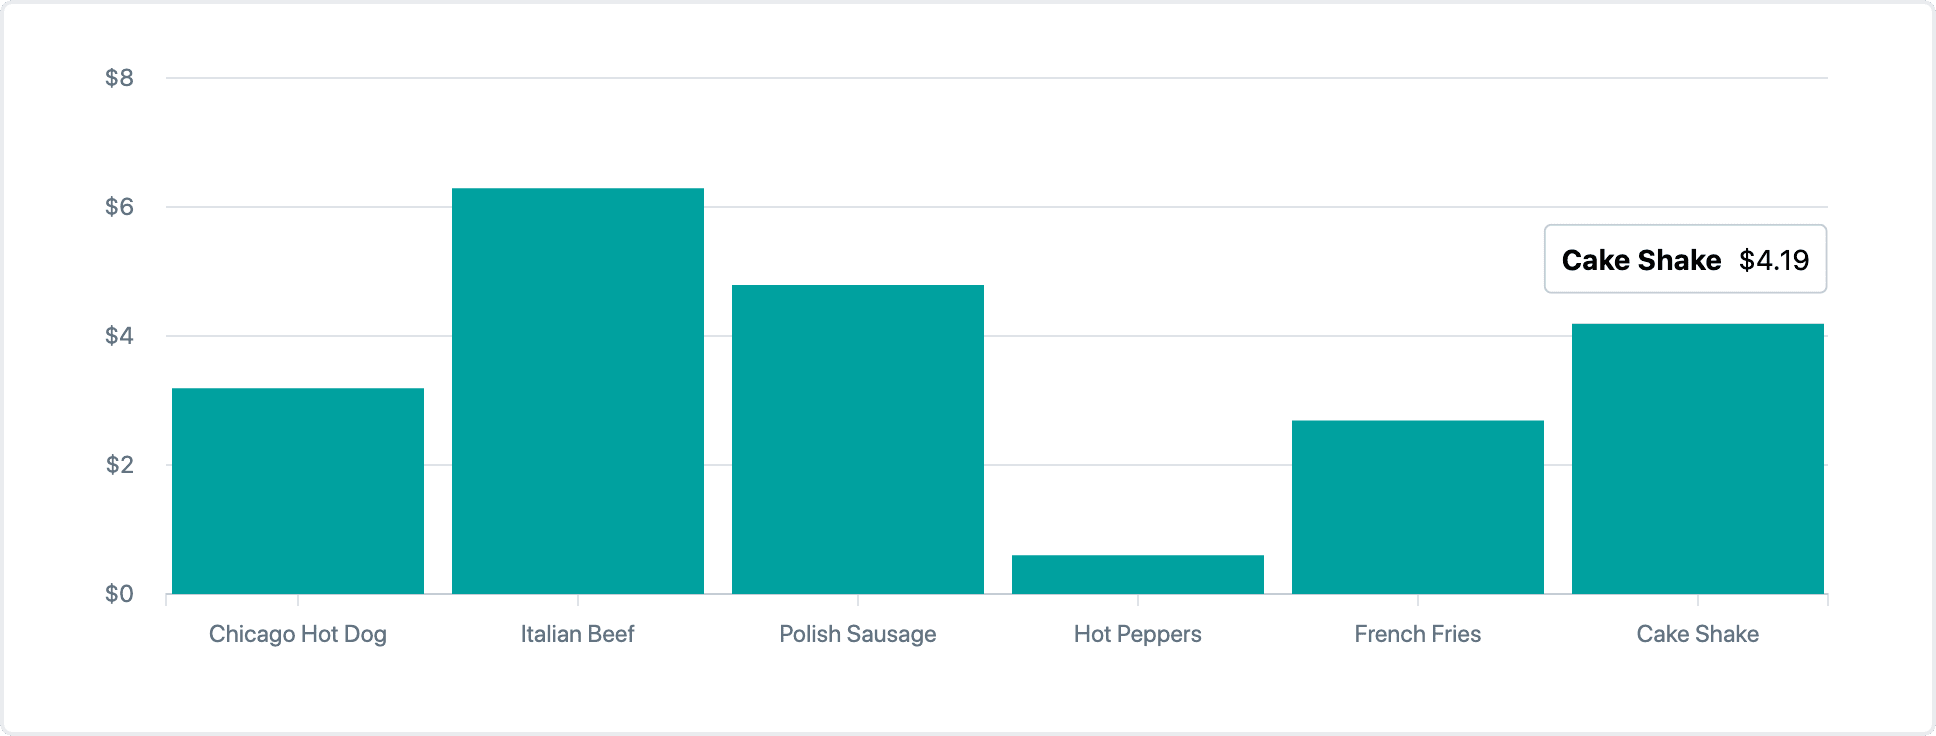
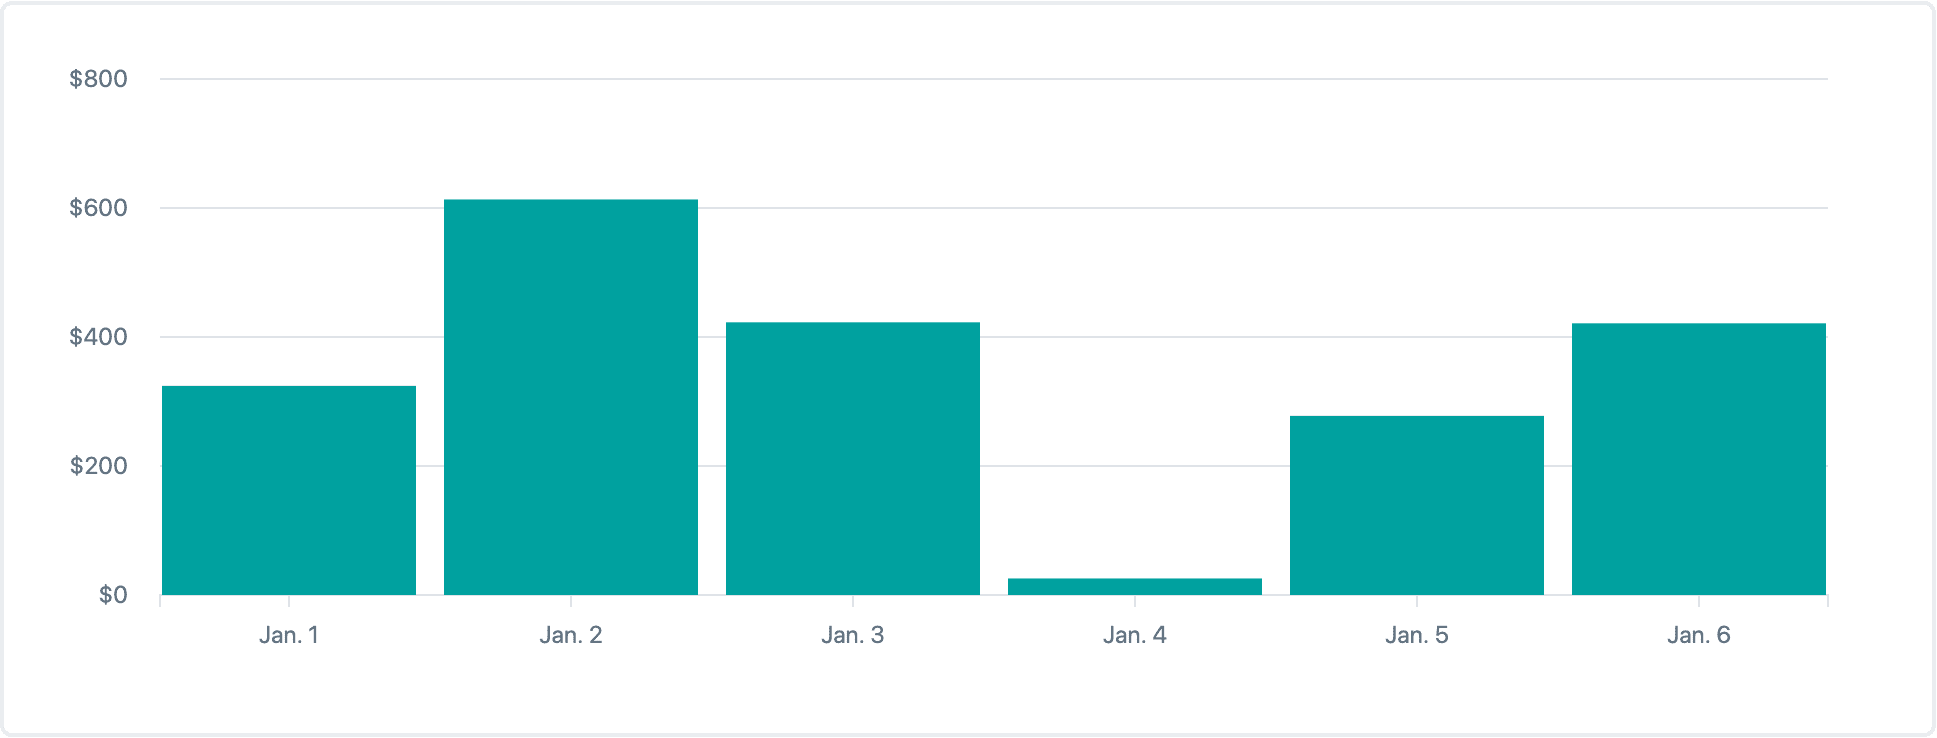
Add Bar Chart Tooltip

diff --git a/documentation/code/BarChartDemo.tsx b/documentation/code/BarChartDemo.tsx
@@ -1,7 +1,7 @@
 import React from 'react';
 
 // eslint-disable-next-line shopify/strict-component-boundaries
-import {BarChart} from '../../src/components';
+import {BarChart, BarChartTooltip} from '../../src/components';
 
 import {OUTER_CONTAINER_STYLE} from './constants';
 
@@ -21,31 +21,63 @@ export function BarChartDemo() {
     "-apple-system, BlinkMacSystemFont, 'Segoe UI', Roboto, Oxygen, Ubuntu, Cantarell, 'Open Sans', 'Helvetica Neue', sans-serif";
 
   const data = [
-    {rawValue: 3.19, label: 'Chicago Hot Dog'},
-    {rawValue: 6.29, label: 'Italian Beef'},
-    {rawValue: 4.79, label: 'Polish Sausage'},
+    {rawValue: 324.19, label: '2020-01-01T12:00:00Z'},
+    {rawValue: 613.29, label: '2020-01-02T12:00:00Z'},
+    {rawValue: 422.79, label: '2020-01-03T12:00:00Z'},
     {
-      rawValue: 0.6,
-      label: 'Hot Peppers',
+      rawValue: 25.6,
+      label: '2020-01-04T12:00:00Z',
     },
-    {rawValue: 2.69, label: 'French Fries'},
-    {rawValue: 4.19, label: 'Cake Shake'},
+    {rawValue: 277.69, label: '2020-01-05T12:00:00Z'},
+    {rawValue: 421.19, label: '2020-01-06T12:00:00Z'},
   ];
 
-  const formatYAxisLabel = (val) =>
-    new Intl.NumberFormat('en-CA', {
+  function formatXAxisLabel(value: string) {
+    return new Date(value).toLocaleDateString('en-CA', {
+      day: 'numeric',
+      month: 'short',
+    });
+  }
+
+  function formatYAxisLabel(value: number) {
+    return new Intl.NumberFormat('en-CA', {
       style: 'currency',
       currency: 'CAD',
-      maximumSignificantDigits: 3,
-    }).format(val);
+      maximumSignificantDigits: 2,
+    }).format(value);
+  }
+
+  function formatTooltipLabel(value: string) {
+    return new Date(value).toLocaleDateString('en-CA', {
+      day: 'numeric',
+      month: 'long',
+      year: 'numeric',
+    });
+  }
+
+  function formatTooltipValue(value: number) {
+    return new Intl.NumberFormat('en-CA', {
+      style: 'currency',
+      currency: 'CAD',
+    }).format(value);
+  }
+
+  function renderTooltip({label, value}: {label: string; value: number}) {
+    const formattedLabel = formatTooltipLabel(label);
+    const formattedValue = formatTooltipValue(value);
+
+    return <BarChartTooltip label={formattedLabel} value={formattedValue} />;
+  }
 
   return (
     <div style={OUTER_CONTAINER_STYLE}>
       <div style={innerContainerStyle}>
         <BarChart
-          formatYAxisLabel={formatYAxisLabel}
-          color="primary"
           data={data}
+          color="primary"
+          formatXAxisLabel={formatXAxisLabel}
+          formatYAxisLabel={formatYAxisLabel}
+          renderTooltip={renderTooltip}
         />
       </div>
     </div>

diff --git a/src/components/BarChart/tests/Chart.test.tsx b/src/components/BarChart/tests/Chart.test.tsx
@@ -4,7 +4,7 @@ import {Color} from 'types';
 import {YAxis, TooltipContainer} from 'components';
 
 import {Chart} from '../Chart';
-import {XAxis, Tooltip, Bar} from '../components';
+import {XAxis, Bar} from '../components';
 
 (global as any).DOMRect = class DOMRect {
   width = 500;
@@ -35,10 +35,11 @@ describe('Chart />', () => {
     chartDimensions: new DOMRect(),
     histogram: false,
     color: 'colorPurple' as Color,
-    formatXAxisLabel: (value: string) => value,
+    formatXAxisLabel: (value: string) => value.toString(),
     formatYAxisLabel: (value: number) => value.toString(),
     barMargin: 0,
     timeSeries: false,
+    renderTooltip: jest.fn(() => <p>Mock Tooltip</p>),
   };
 
   it('renders an SVG element', () => {
@@ -56,21 +57,32 @@ describe('Chart />', () => {
     expect(barChart).toContainReactComponent(YAxis);
   });
 
-  it('does not render a <Tooltip /> or <TooltipContainer /> if there is no active point', () => {
+  it('does not render a <TooltipContainer /> if there is no active point', () => {
     const chart = mount(<Chart {...mockProps} />);
 
     expect(chart).not.toContainReactComponent(TooltipContainer);
-    expect(chart).not.toContainReactComponent(Tooltip);
   });
 
-  it('renders a <Tooltip /> and <TooltipContainer /> if there is an active point', () => {
+  it('renders a <TooltipContainer /> if there is an active point', () => {
     const chart = mount(<Chart {...mockProps} />);
     const svg = chart.find('svg')!;
 
     svg.trigger('onMouseMove', fakeSVGEvent);
 
     expect(chart).toContainReactComponent(TooltipContainer);
-    expect(chart).toContainReactComponent(Tooltip);
+  });
+
+  it('renders the tooltip content in a <TooltipContainer /> if there is an active point', () => {
+    const chart = mount(<Chart {...mockProps} />);
+    const svg = chart.find('svg')!;
+
+    svg.trigger('onMouseMove', fakeSVGEvent);
+
+    const tooltipContainer = chart.find(TooltipContainer)!;
+
+    expect(tooltipContainer).toContainReactComponent('p', {
+      children: 'Mock Tooltip',
+    });
   });
 
   it('renders a Bar for each data item', () => {

diff --git a/src/components/BarChart/Chart.tsx b/src/components/BarChart/Chart.tsx
@@ -1,4 +1,4 @@
-import React, {useState} from 'react';
+import React, {useState, useMemo} from 'react';
 import {Color} from 'types';
 
 import {eventPoint, getTextWidth} from '../../utilities';
@@ -6,8 +6,8 @@ import {YAxis} from '../YAxis';
 import {TooltipContainer} from '../TooltipContainer';
 import {StringLabelFormatter, NumberLabelFormatter} from '../../types';
 
-import {BarData} from './types';
-import {XAxis, Bar, Tooltip} from './components';
+import {BarData, RenderTooltipProps} from './types';
+import {XAxis, Bar} from './components';
 import {useYScale, useXScale} from './hooks';
 import {
   MARGIN,
@@ -29,6 +29,7 @@ interface Props {
   formatXAxisLabel: StringLabelFormatter;
   formatYAxisLabel: NumberLabelFormatter;
   timeSeries: boolean;
+  renderTooltip: (props: RenderTooltipProps) => React.ReactNode;
 }
 
 export function Chart({
@@ -40,6 +41,7 @@ export function Chart({
   formatXAxisLabel,
   formatYAxisLabel,
   timeSeries,
+  renderTooltip,
 }: Props) {
   const [activeBar, setActiveBar] = useState<number | null>(null);
   const [tooltipPosition, setTooltipPosition] = useState<{
@@ -86,6 +88,17 @@ export function Chart({
     data,
     formatYAxisLabel,
   });
+
+  const tooltipMarkup = useMemo(() => {
+    if (activeBar == null) {
+      return null;
+    }
+
+    return renderTooltip({
+      label: data[activeBar].label,
+      value: data[activeBar].rawValue,
+    });
+  }, [activeBar, data, renderTooltip]);
 
   return (
     <div
@@ -150,10 +163,7 @@ export function Chart({
           margin={MARGIN}
           position="center"
         >
-          <Tooltip
-            label={data[activeBar].label}
-            value={formatYAxisLabel(data[activeBar].rawValue)}
-          />
+          {tooltipMarkup}
         </TooltipContainer>
       ) : null}
     </div>

diff --git a/src/components/BarChart/BarChart.tsx b/src/components/BarChart/BarChart.tsx
@@ -4,8 +4,9 @@ import {Color} from 'types';
 
 import {StringLabelFormatter, NumberLabelFormatter} from '../../types';
 
+import {Tooltip} from './components';
 import {Chart} from './Chart';
-import {BarData, BarMargin} from './types';
+import {BarData, BarMargin, RenderTooltipProps} from './types';
 
 interface Props {
   data: BarData[];
@@ -16,6 +17,7 @@ interface Props {
   formatXAxisLabel?: StringLabelFormatter;
   formatYAxisLabel?: NumberLabelFormatter;
   timeSeries?: boolean;
+  renderTooltip?: (props: RenderTooltipProps) => React.ReactNode;
 }
 
 export function BarChart({
@@ -27,6 +29,7 @@ export function BarChart({
   timeSeries = false,
   formatXAxisLabel = (value) => value.toString(),
   formatYAxisLabel = (value) => value.toString(),
+  renderTooltip,
 }: Props) {
   const [chartDimensions, setChartDimensions] = useState<DOMRect | null>(null);
   const containerRef = useRef<HTMLDivElement | null>(null);
@@ -49,6 +52,13 @@ export function BarChart({
     };
   }, [containerRef, updateDimensions]);
 
+  function renderDefaultTooltip({label, value}: RenderTooltipProps) {
+    const formattedLabel = formatXAxisLabel(label);
+    const formattedValue = formatYAxisLabel(value);
+
+    return <Tooltip label={formattedLabel} value={formattedValue} />;
+  }
+
   return (
     <div
       aria-label={accessibilityLabel}
@@ -66,6 +76,7 @@ export function BarChart({
           formatXAxisLabel={formatXAxisLabel}
           formatYAxisLabel={formatYAxisLabel}
           timeSeries={timeSeries}
+          renderTooltip={renderTooltip || renderDefaultTooltip}
         />
       )}
     </div>

diff --git a/src/components/index.ts b/src/components/index.ts
@@ -1,6 +1,6 @@
 export {Point} from './Point';
 export {Crosshair} from './Crosshair';
-export {BarChart} from './BarChart';
+export {BarChart, BarChartTooltip} from './BarChart';
 export {LineChart} from './LineChart';
 export {NormalizedStackedBar} from './NormalizedStackedBar';
 export {Sparkline} from './Sparkline';

diff --git a/src/index.ts b/src/index.ts
@@ -1,8 +1,9 @@
 export {
-  BarChart,
-  LineChart,
-  NormalizedStackedBar,
   Sparkline,
+  NormalizedStackedBar,
+  BarChart,
+  BarChartTooltip,
+  LineChart,
   StackedAreaChart,
   MultiSeriesBarChart,
 } from './components';

diff --git a/src/components/BarChart/components/Tooltip/Tooltip.scss b/src/components/BarChart/components/Tooltip/Tooltip.scss
@@ -4,7 +4,6 @@
 .Tooltip {
   @include tooltip-text;
   display: grid;
-  max-width: 160px;
   grid-template-columns: 1fr auto;
   grid-gap: $spacing-tight;
 }

diff --git a/src/components/BarChart/types.ts b/src/components/BarChart/types.ts
@@ -9,3 +9,8 @@ export enum BarMargin {
   Large = 0.3,
   None = 0,
 }
+
+export interface RenderTooltipProps {
+  label: string;
+  value: number;
+}

diff --git a/src/components/BarChart/index.ts b/src/components/BarChart/index.ts
@@ -1,1 +1,2 @@
 export {BarChart} from './BarChart';
+export {Tooltip as BarChartTooltip} from './components';

diff --git a/src/components/BarChart/BarChart.md b/src/components/BarChart/BarChart.md
@@ -8,26 +8,62 @@ Used to show comparison across categories.
 
 ```tsx
 const data = [
-  {rawValue: 3.19, label: 'Chicago Hot Dog'},
-  {rawValue: 6.29, label: 'Italian Beef'},
-  {rawValue: 4.79, label: 'Polish Sausage'},
+  {rawValue: 324.19, label: '2020-01-01T12:00:00Z'},
+  {rawValue: 613.29, label: '2020-01-02T12:00:00Z'},
+  {rawValue: 422.79, label: '2020-01-03T12:00:00Z'},
   {
-    rawValue: 0.6,
-    label: 'Hot Peppers',
+    rawValue: 25.6,
+    label: '2020-01-04T12:00:00Z',
   },
-  {rawValue: 2.69, label: 'French Fries'},
-  {rawValue: 4.19, label: 'Cake Shake'},
+  {rawValue: 277.69, label: '2020-01-05T12:00:00Z'},
+  {rawValue: 421.19, label: '2020-01-06T12:00:00Z'},
 ];
 
-const formatYAxisLabel = (val) =>
-  new Intl.NumberFormat('en-CA', {
+function formatXAxisLabel(value: string) {
+  return new Date(value).toLocaleDateString('en-CA', {
+    day: 'numeric',
+    month: 'short',
+  });
+}
+
+function formatYAxisLabel(value: number) {
+  return new Intl.NumberFormat('en-CA', {
     style: 'currency',
     currency: 'CAD',
-    maximumSignificantDigits: 3,
-  }).format(val);
+    maximumSignificantDigits: 2,
+  }).format(value);
+}
+
+function formatTooltipLabel(value: string) {
+  return new Date(value).toLocaleDateString('en-CA', {
+    day: 'numeric',
+    month: 'long',
+    year: 'numeric',
+  });
+}
+
+function formatTooltipValue(value: number) {
+  return new Intl.NumberFormat('en-CA', {
+    style: 'currency',
+    currency: 'CAD',
+  }).format(value);
+}
+
+function renderTooltip({label, value}: {label: string; value: number}) {
+  const formattedLabel = formatTooltipLabel(label);
+  const formattedValue = formatTooltipValue(value);
+
+  return <BarChartTooltip label={formattedLabel} value={formattedValue} />;
+}
 
 return (
-  <BarChart formatYAxisLabel={formatYAxisLabel} color="primary" data={data} />
+  <BarChart
+    data={data}
+    color="primary"
+    formatXAxisLabel={formatXAxisLabel}
+    formatYAxisLabel={formatYAxisLabel}
+    renderTooltip={renderTooltip}
+  />
 );
 ```
 
@@ -43,6 +79,7 @@ The bar chart interface looks like this:
   color?: Color;
   formatXAxisLabel?(value: string, index?: number, data?: string[]): string;
   formatYAxisLabel?(value: number): string;
+  renderTooltip?({label, value}: {lable: string, value: string}): React.ReactNode;
   highlightColor?: Color;
   timeSeries?: boolean;
 }
@@ -99,6 +136,14 @@ This accepts a function that is called to format the labels when the chart draws
 | `(value: number): string` | `(value) => value.toString()` |
 
 This accepts a function that is called when the Y value (`rawValue`) is formatted for the tooltip and for the Y Axis.
+
+#### renderTooltip
+
+| type                                                                 |
+| -------------------------------------------------------------------- |
+| `({label, value}: {label: string; value: number}): React.ReactNode;` |
+
+This accepts a function that is called to render the tooltip markup. By default it calls `formatXAxisLabel` and `formatYAxisLabel` to format the the tooltip values and passes them to `<BarChartTooltip />`. Note that this only affects the content inside the `<TooltipContainer />`. The container provides the positioning and border for the content.
 
 #### highlightColor
 
